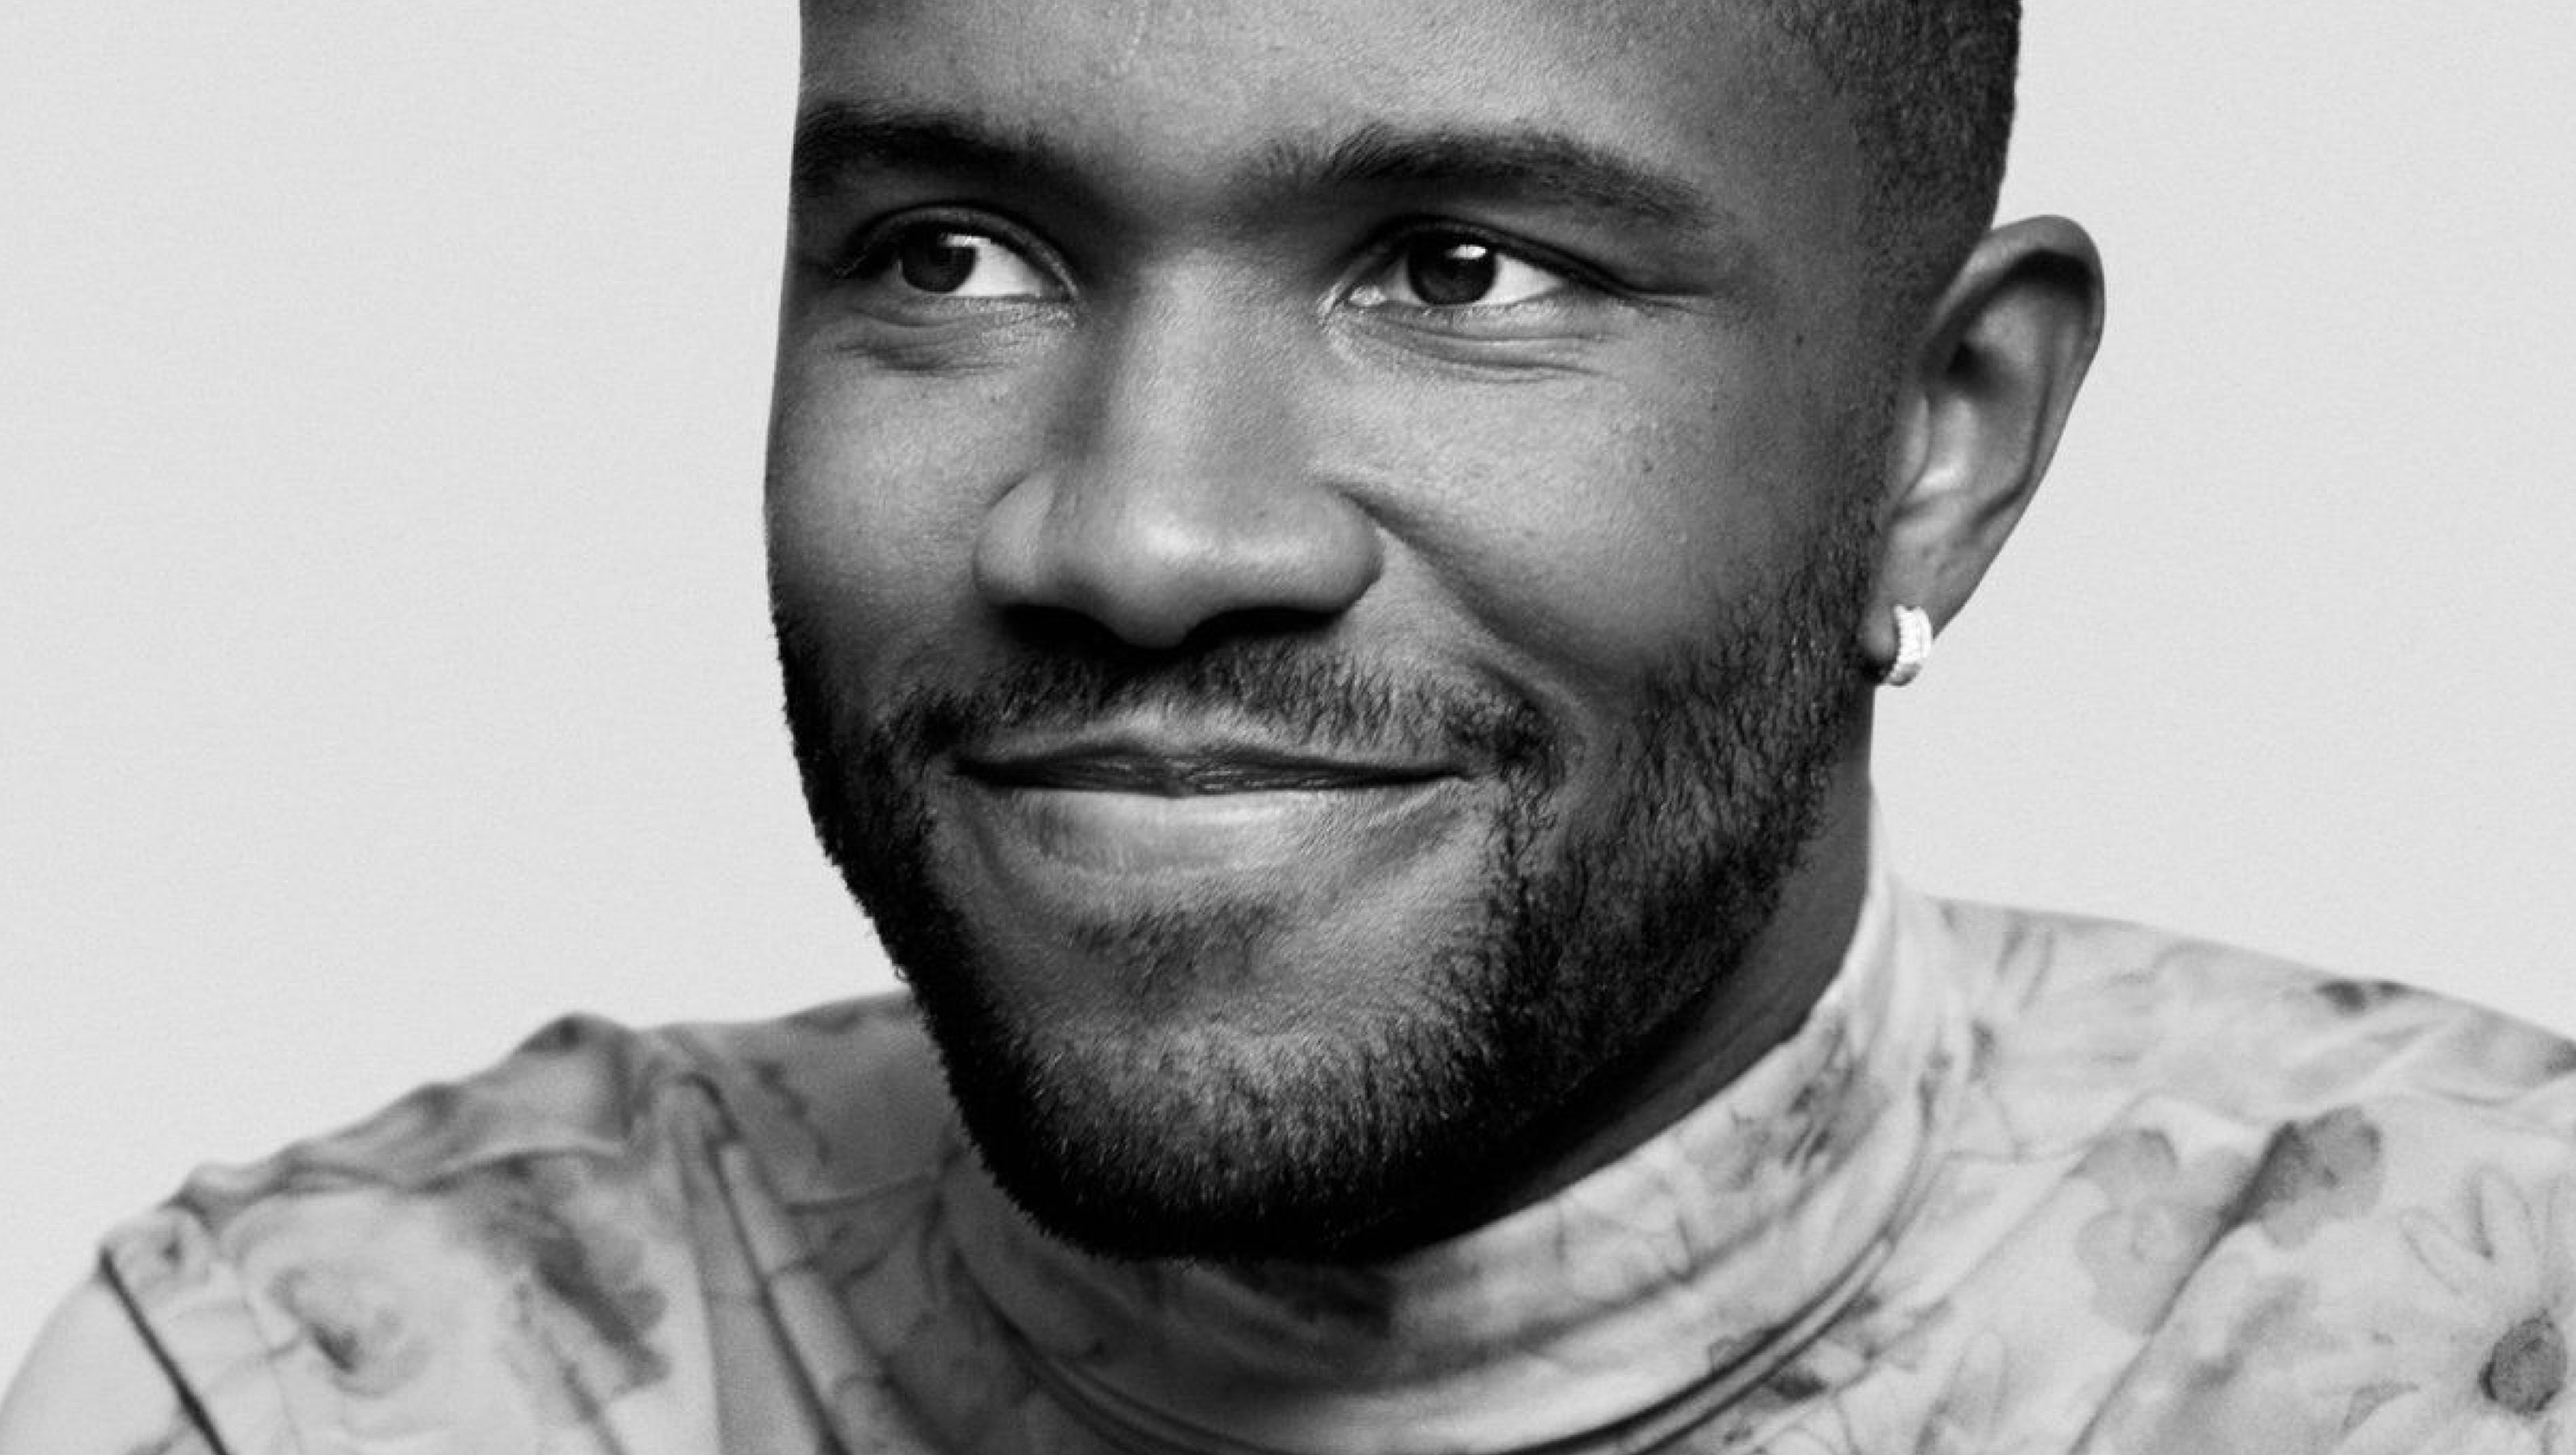
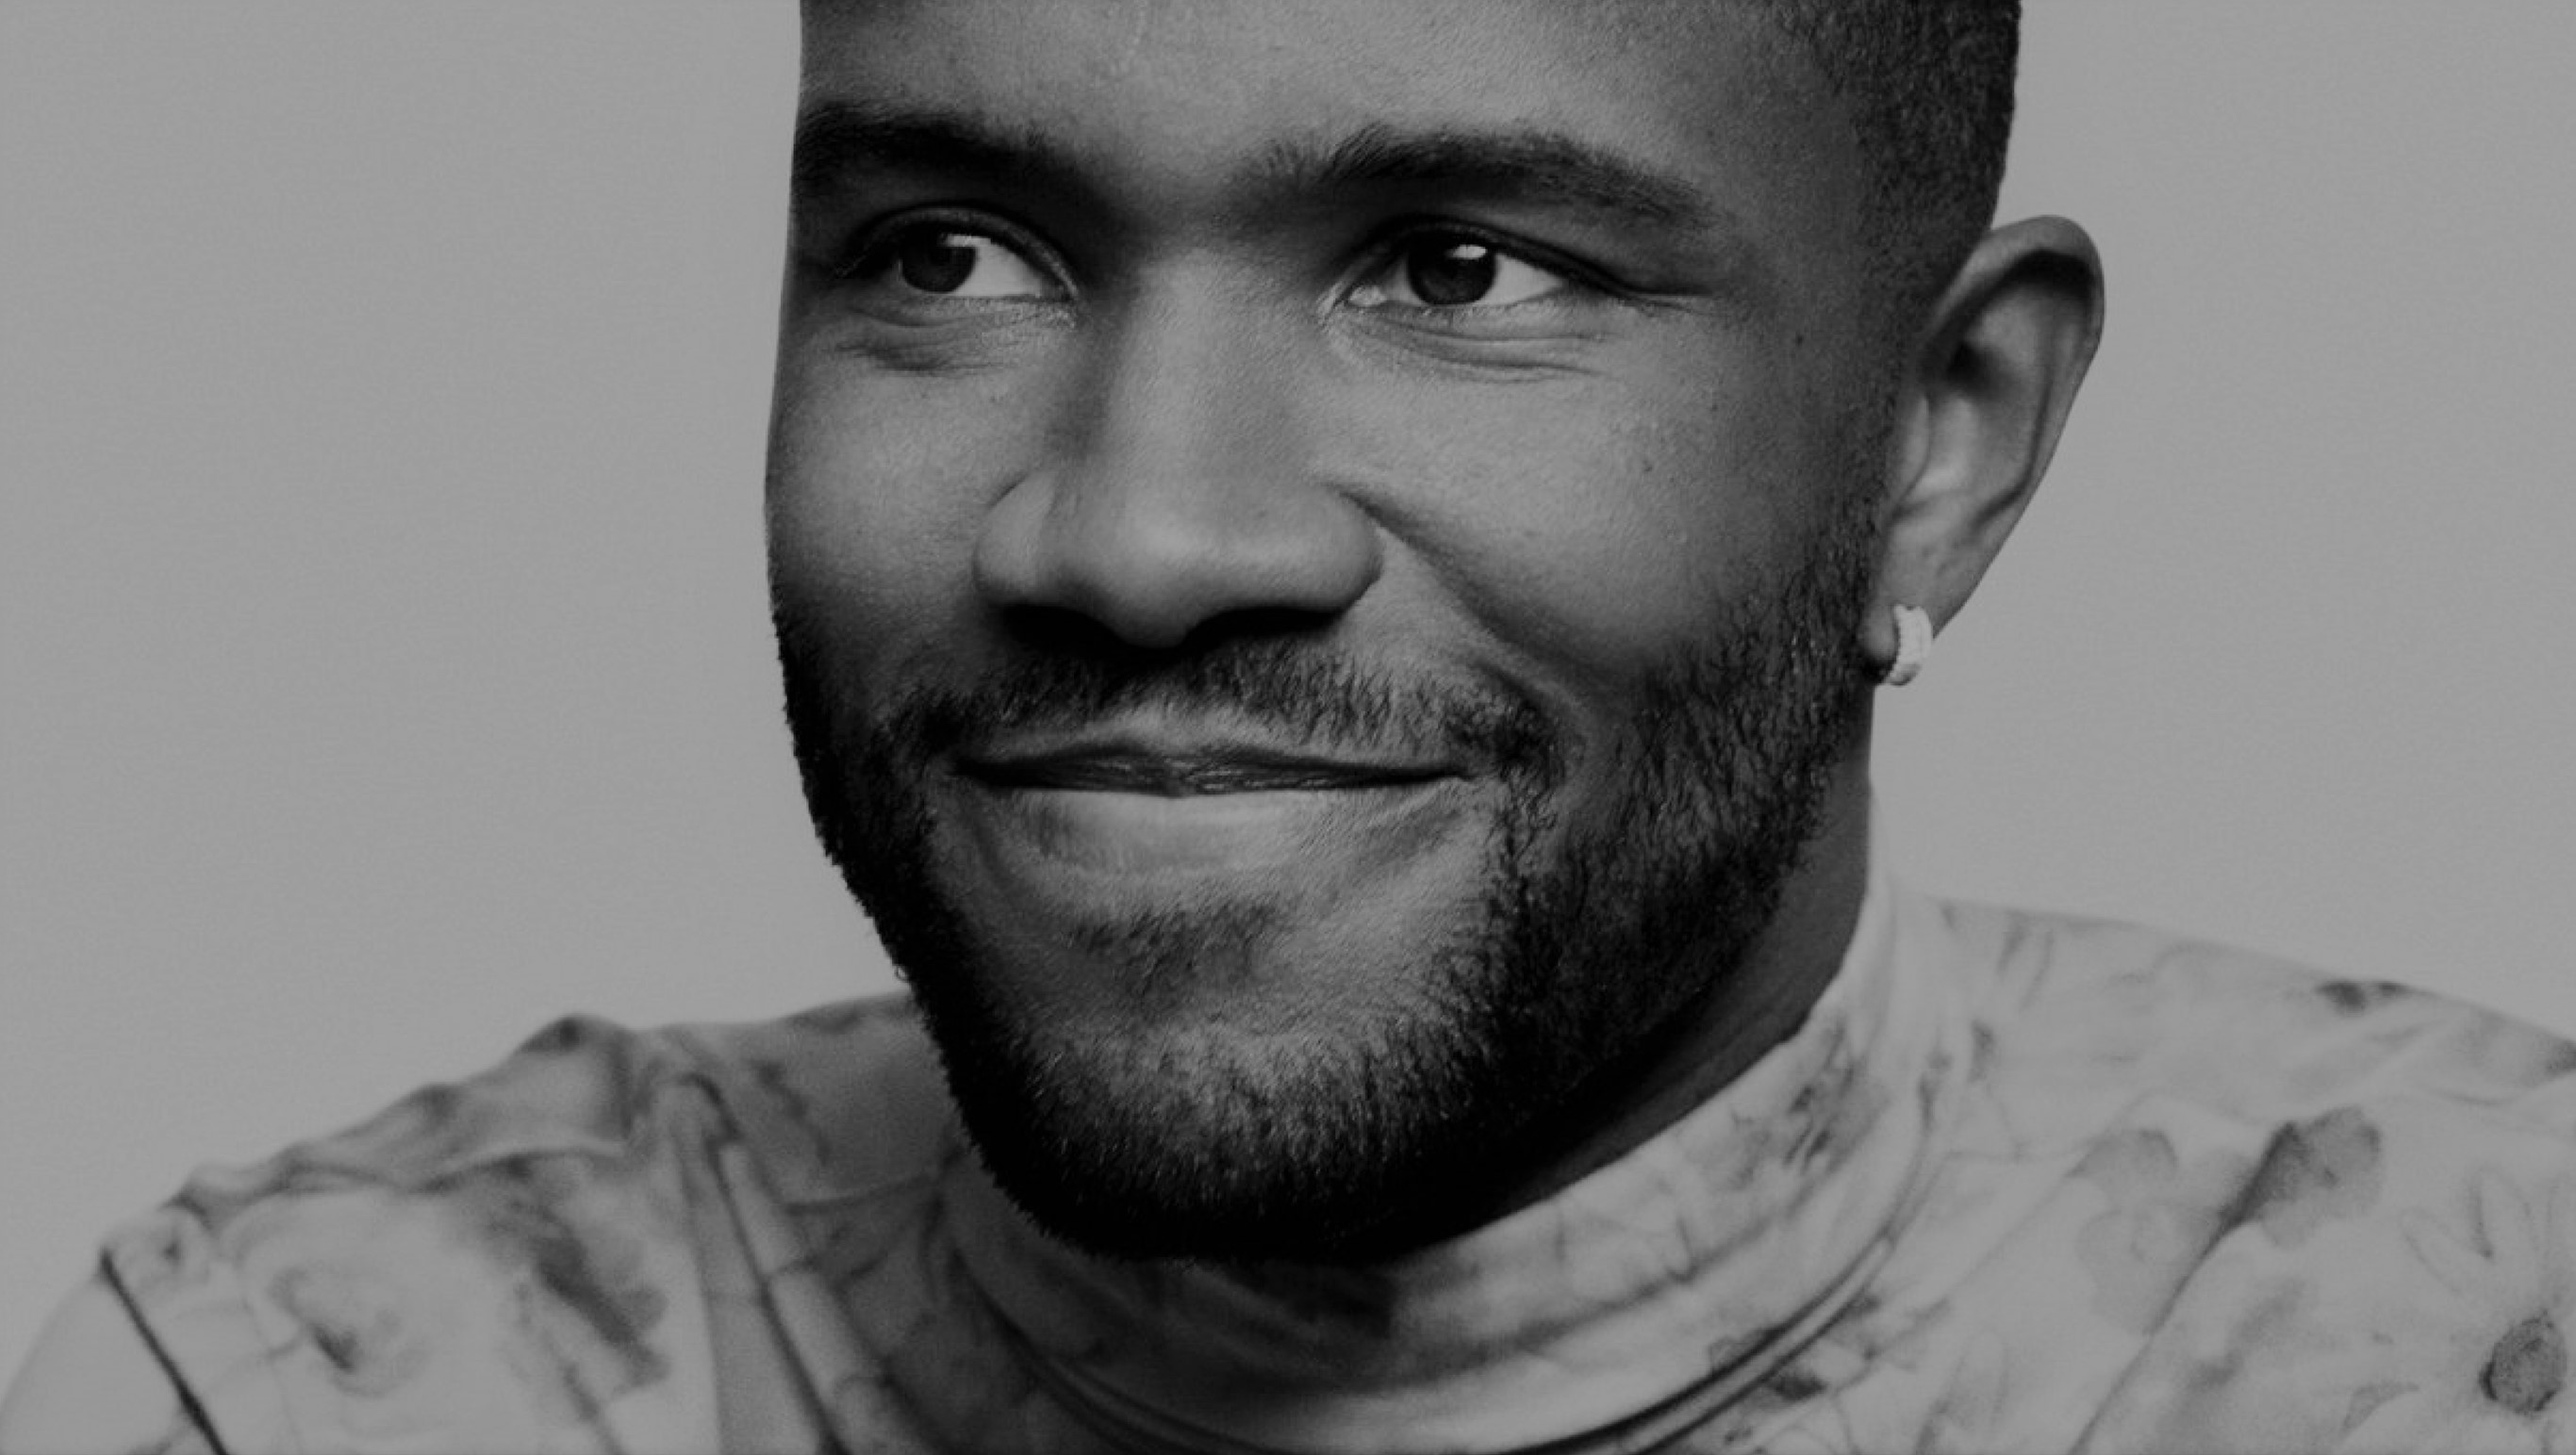
background color activation component  fixed

diff --git a/becks/projects/user-app/src/app/_modules/user/_modules/profile/_pages/activation/activation.page.scss b/becks/projects/user-app/src/app/_modules/user/_modules/profile/_pages/activation/activation.page.scss
@@ -93,12 +93,7 @@
 
 @media (min-width: 769px) {
   .from-section {
-    background-image: linear-gradient(
-        90deg,
-        rgba(158, 158, 158, 0.3) 0%,
-        rgba(158, 158, 158, 0.3) 100%
-      ),
-      url(./../../../../../../../assets/img/frankbn.jpg);
+    background-image: url(./../../../../../../../assets/img/frankbn.jpg);
     background-size: cover;
     background-position: top;
   }
